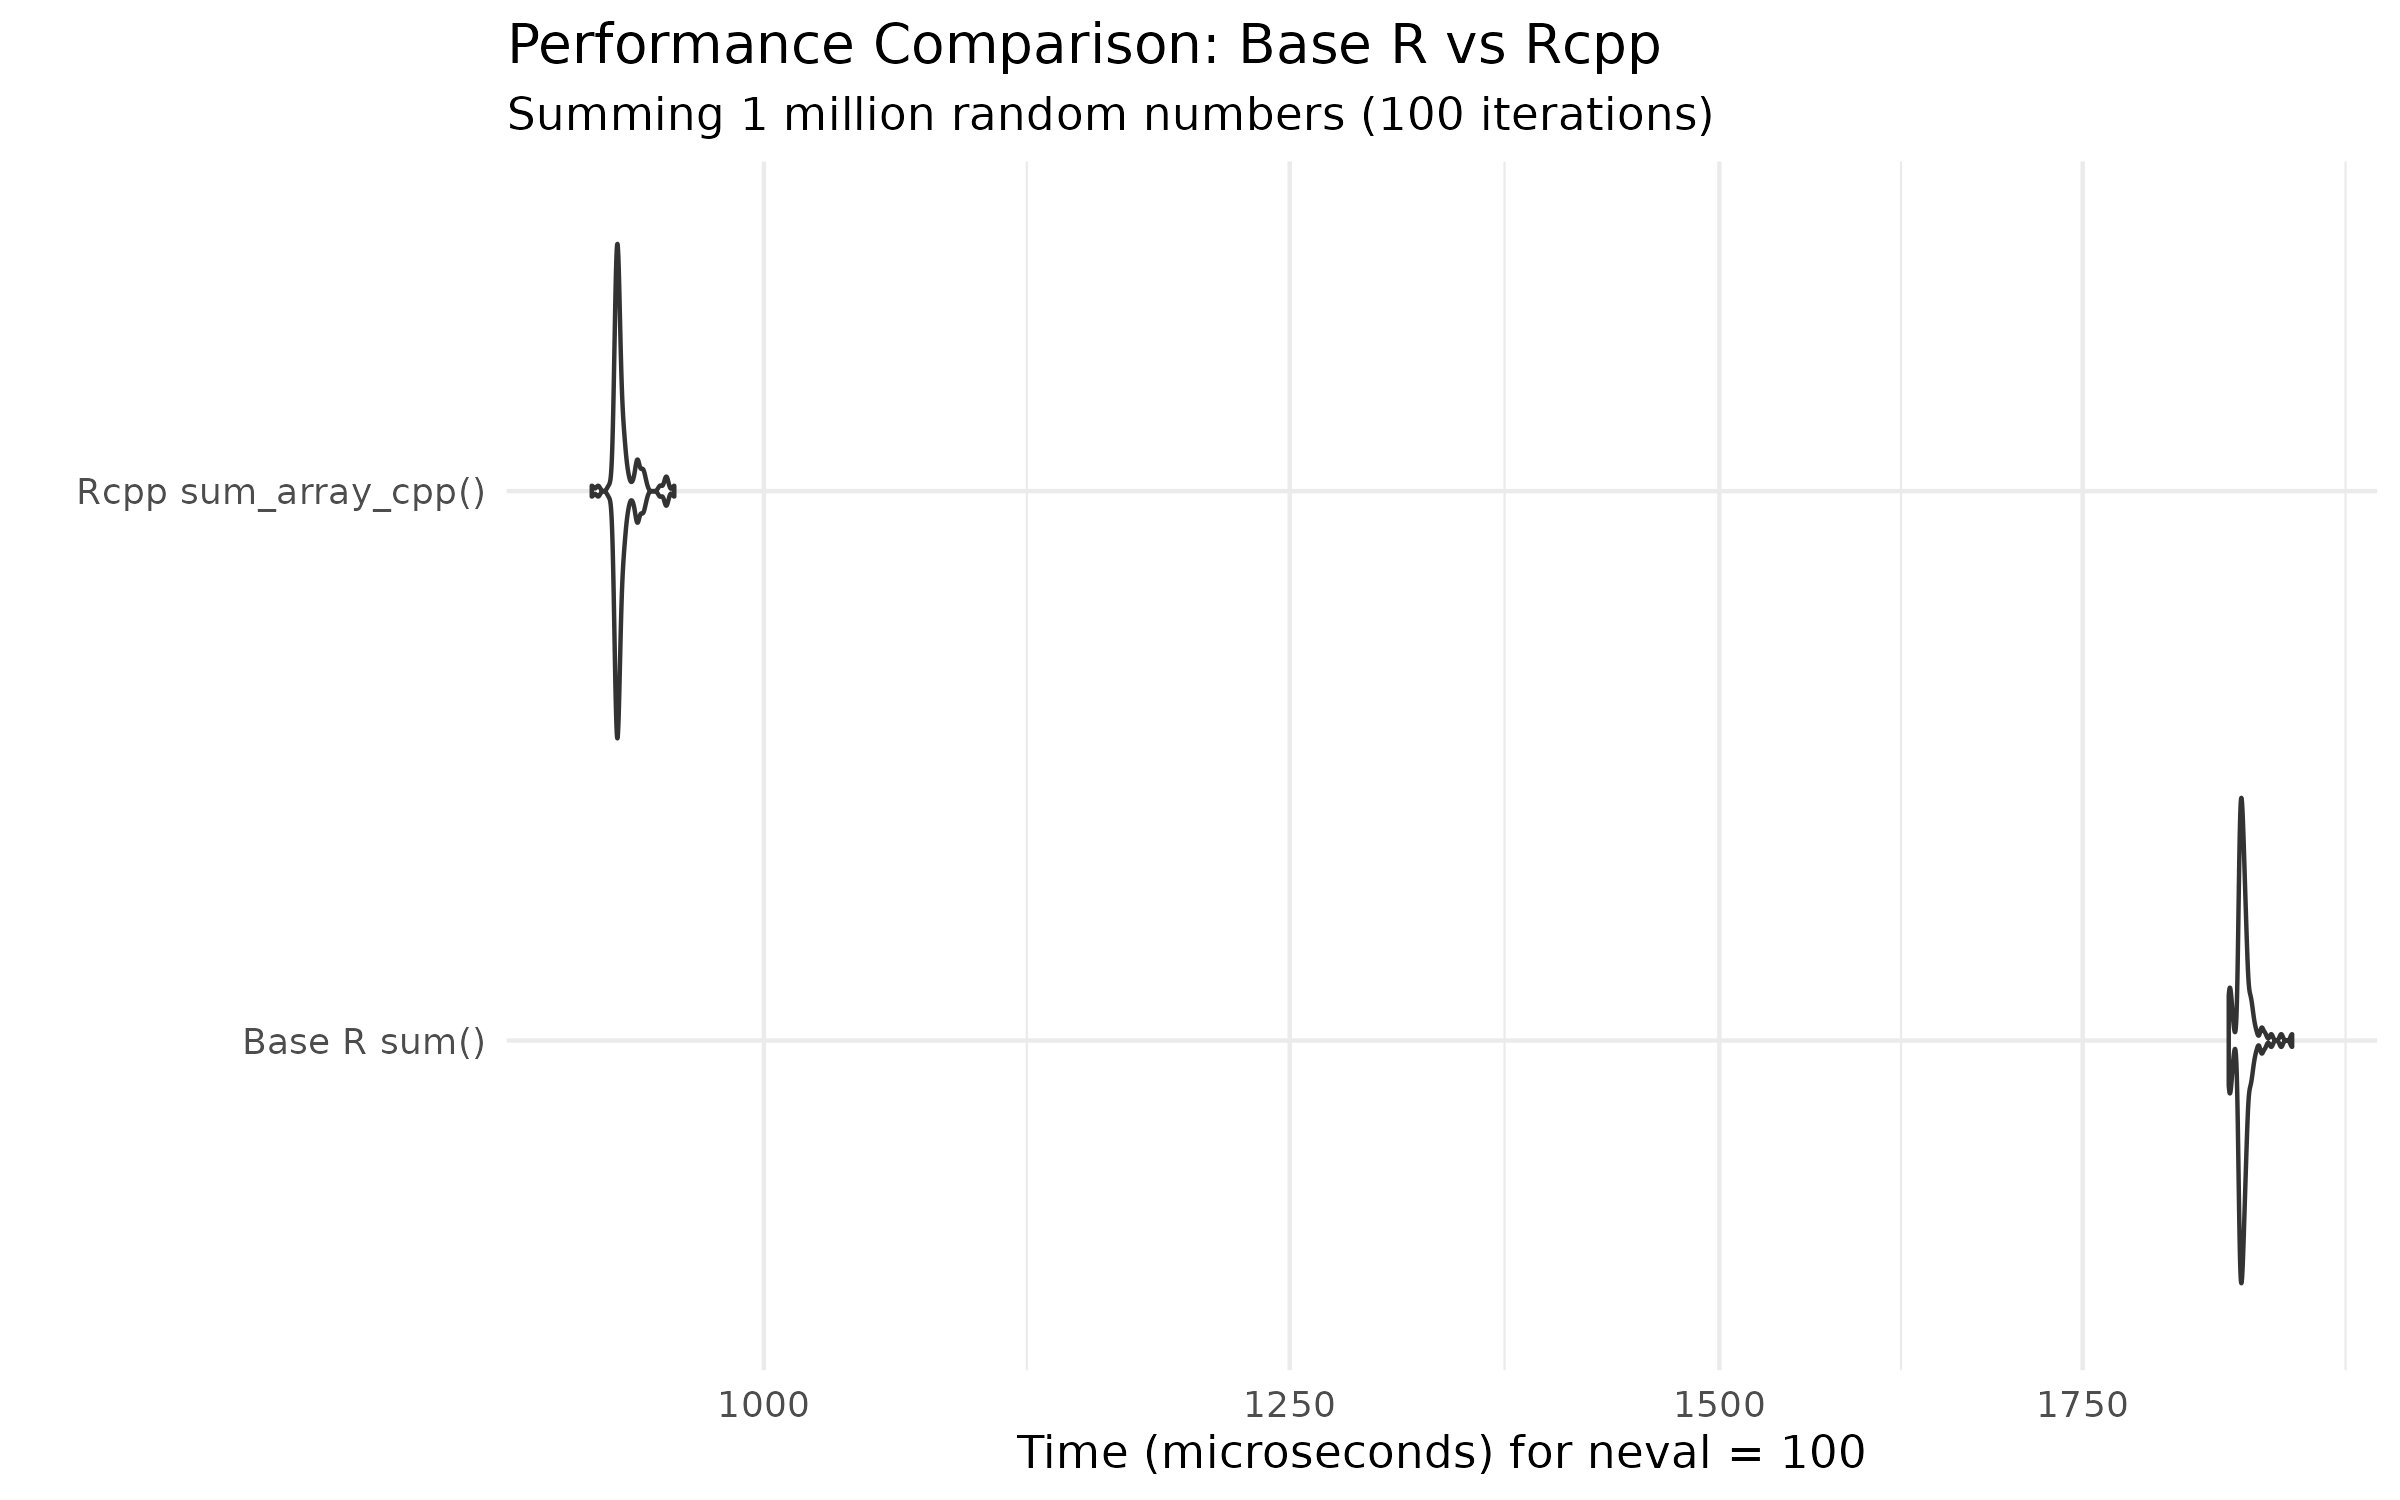
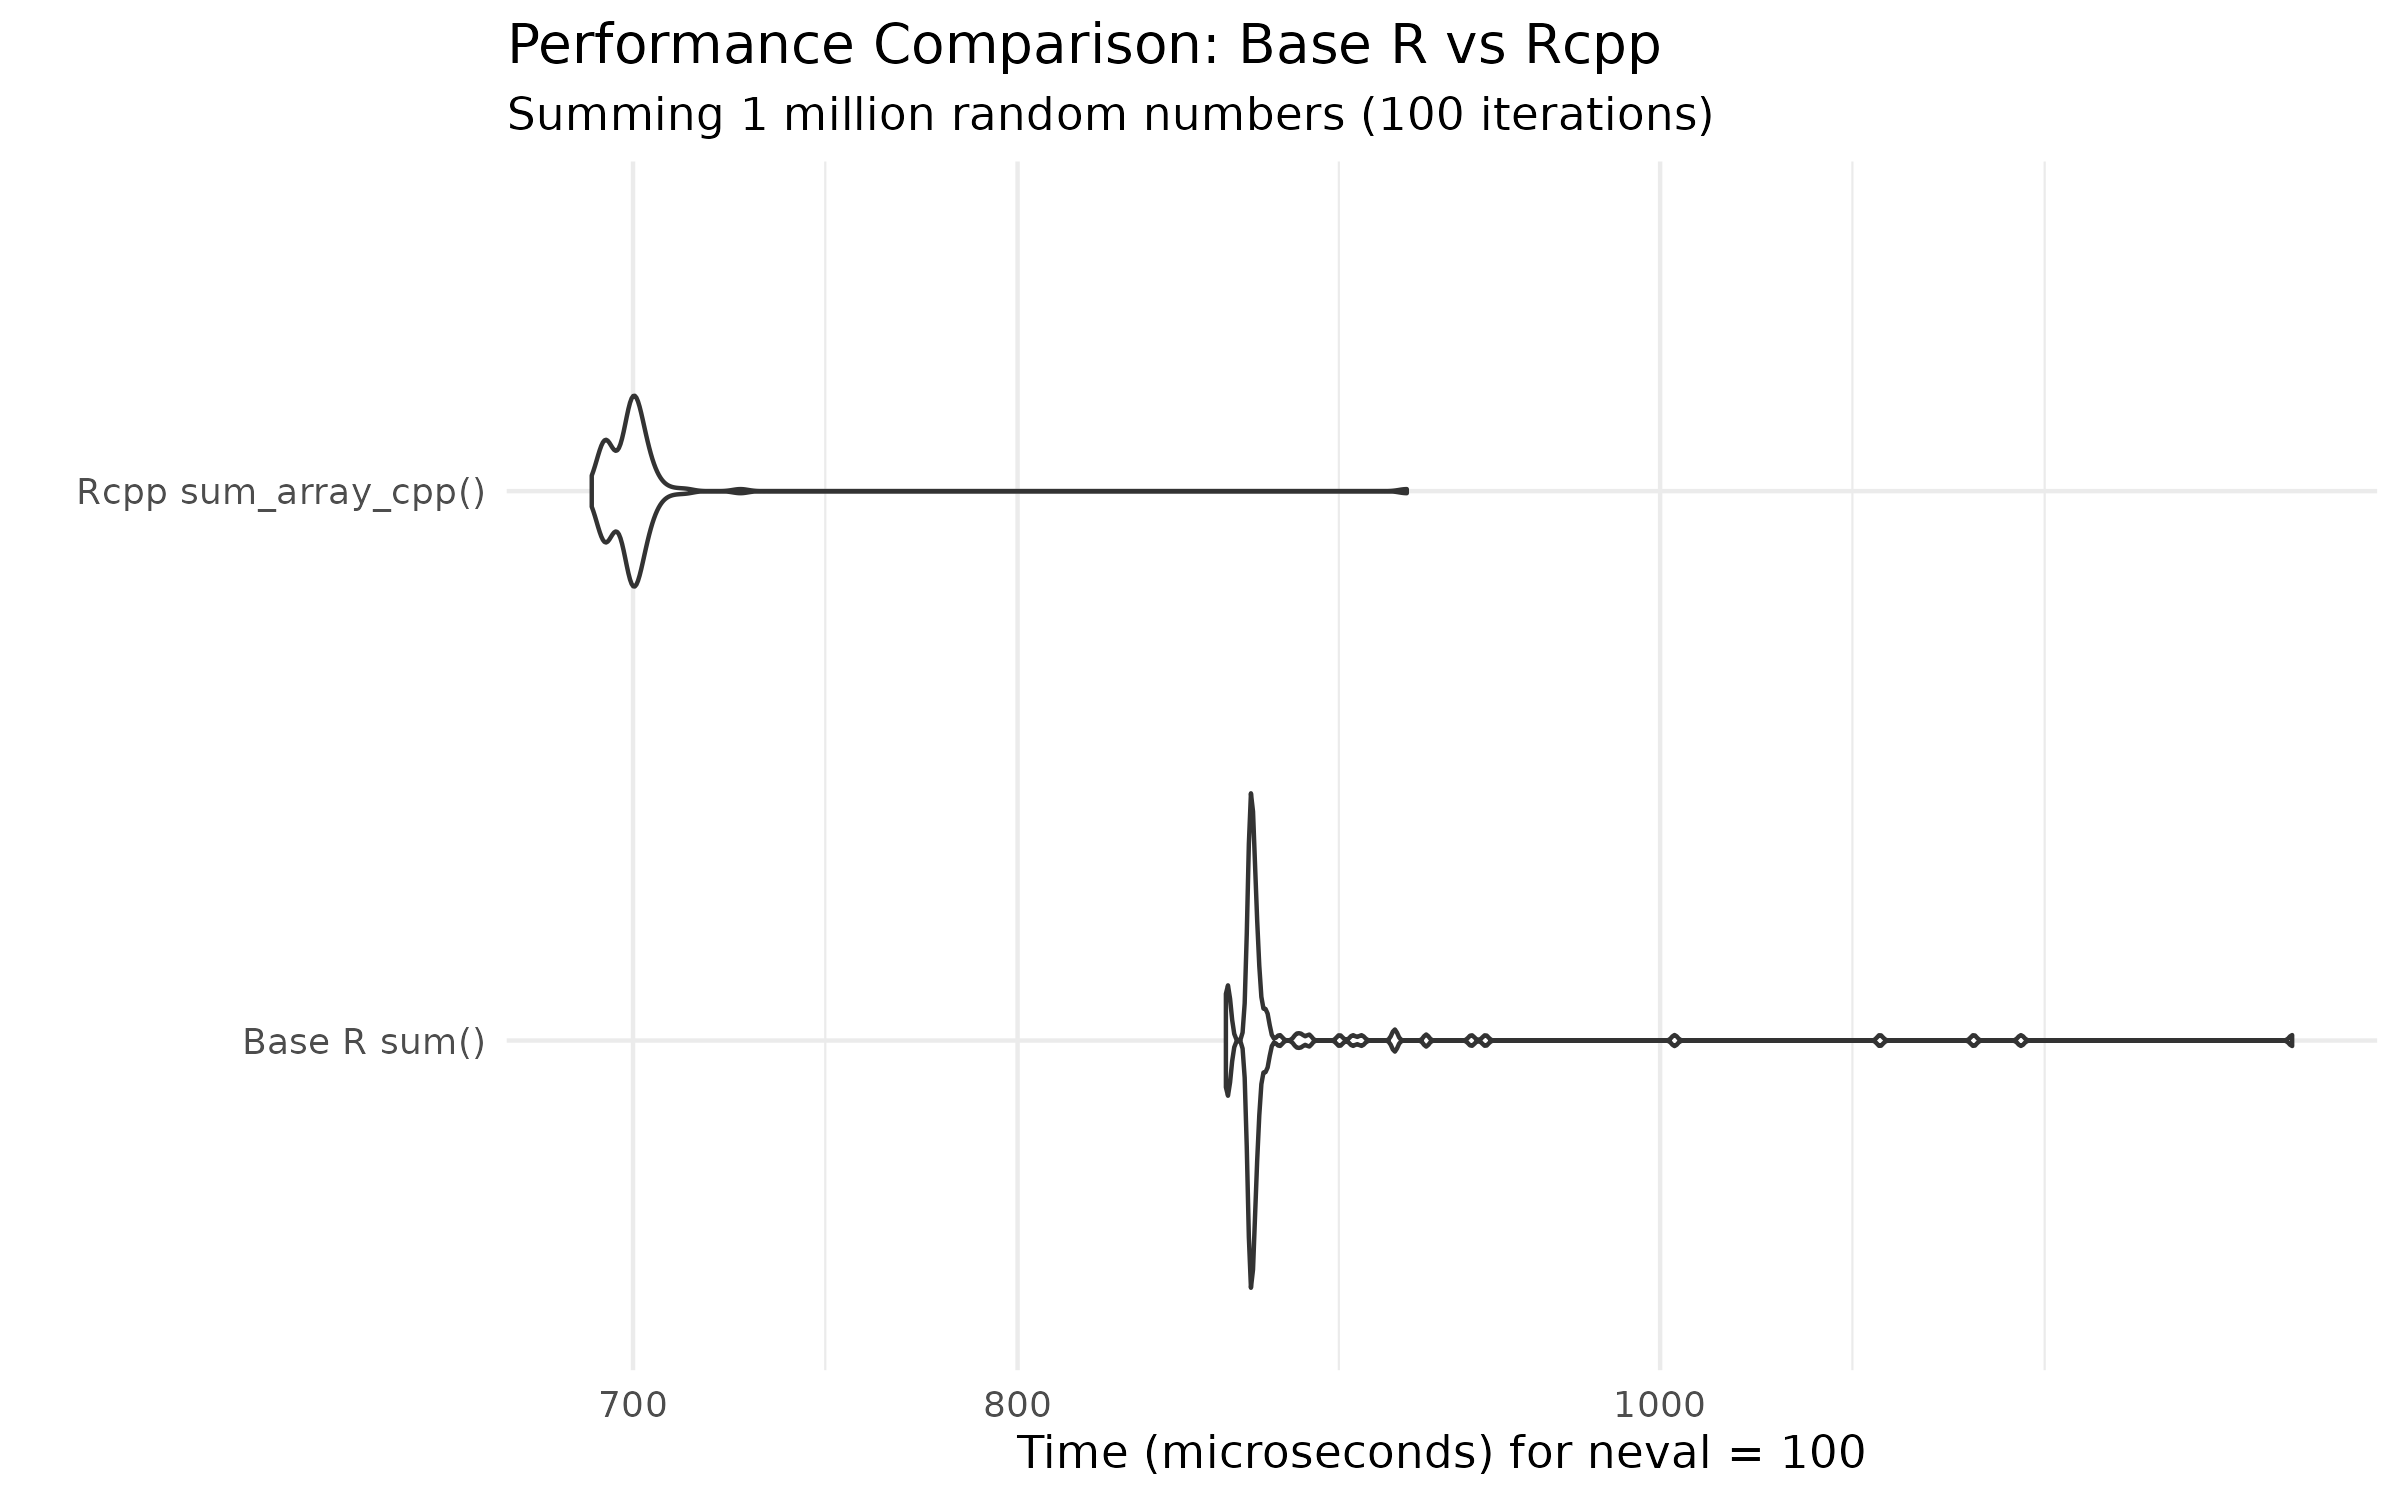
Deploying to gh-pages from @ derecksprojects/templateRpackage@328bc1bf310baf7f404e1f9f89c6ea549078542a 🚀

diff --git a/articles/demo.html b/articles/demo.html
@@ -132,12 +132,9 @@ base R’s <code><a href="https://rdrr.io/r/base/sum.html" class="external-link"
 <span></span>
 <span><span class="fu"><a href="https://rdrr.io/r/base/print.html" class="external-link">print</a></span><span class="op">(</span><span class="va">mb</span><span class="op">)</span></span>
 <span><span class="co">#&gt; Unit: microseconds</span></span>
-<span><span class="co">#&gt;                  expr      min       lq      mean   median       uq      max</span></span>
-<span><span class="co">#&gt;          Base R sum() 1861.906 1870.742 1873.8565 1872.670 1875.626 1912.691</span></span>
-<span><span class="co">#&gt;  Rcpp sum_array_cpp()  929.555  939.403  942.0178  940.125  942.314  962.697</span></span>
-<span><span class="co">#&gt;  neval</span></span>
-<span><span class="co">#&gt;    100</span></span>
-<span><span class="co">#&gt;    100</span></span></code></pre></div>
+<span><span class="co">#&gt;                  expr     min      lq     mean   median      uq      max neval</span></span>
+<span><span class="co">#&gt;          Base R sum() 860.025 867.123 884.0967 867.9525 869.971 1245.417   100</span></span>
+<span><span class="co">#&gt;  Rcpp sum_array_cpp() 690.038 694.454 701.3357 699.7175 701.376  915.783   100</span></span></code></pre></div>
 <div class="sourceCode" id="cb5"><pre class="downlit sourceCode r">
 <code class="sourceCode R"><span><span class="fu">autoplot</span><span class="op">(</span><span class="va">mb</span><span class="op">)</span> <span class="op">+</span></span>
 <span>  <span class="fu">labs</span><span class="op">(</span></span>

diff --git a/articles/demo.md b/articles/demo.md
@@ -72,12 +72,9 @@ mb <- microbenchmark(
 
 print(mb)
 #> Unit: microseconds
-#>                  expr      min       lq      mean   median       uq      max
-#>          Base R sum() 1861.906 1870.742 1873.8565 1872.670 1875.626 1912.691
-#>  Rcpp sum_array_cpp()  929.555  939.403  942.0178  940.125  942.314  962.697
-#>  neval
-#>    100
-#>    100
+#>                  expr     min      lq     mean   median      uq      max neval
+#>          Base R sum() 860.025 867.123 884.0967 867.9525 869.971 1245.417   100
+#>  Rcpp sum_array_cpp() 690.038 694.454 701.3357 699.7175 701.376  915.783   100
 ```
 
 ``` r
